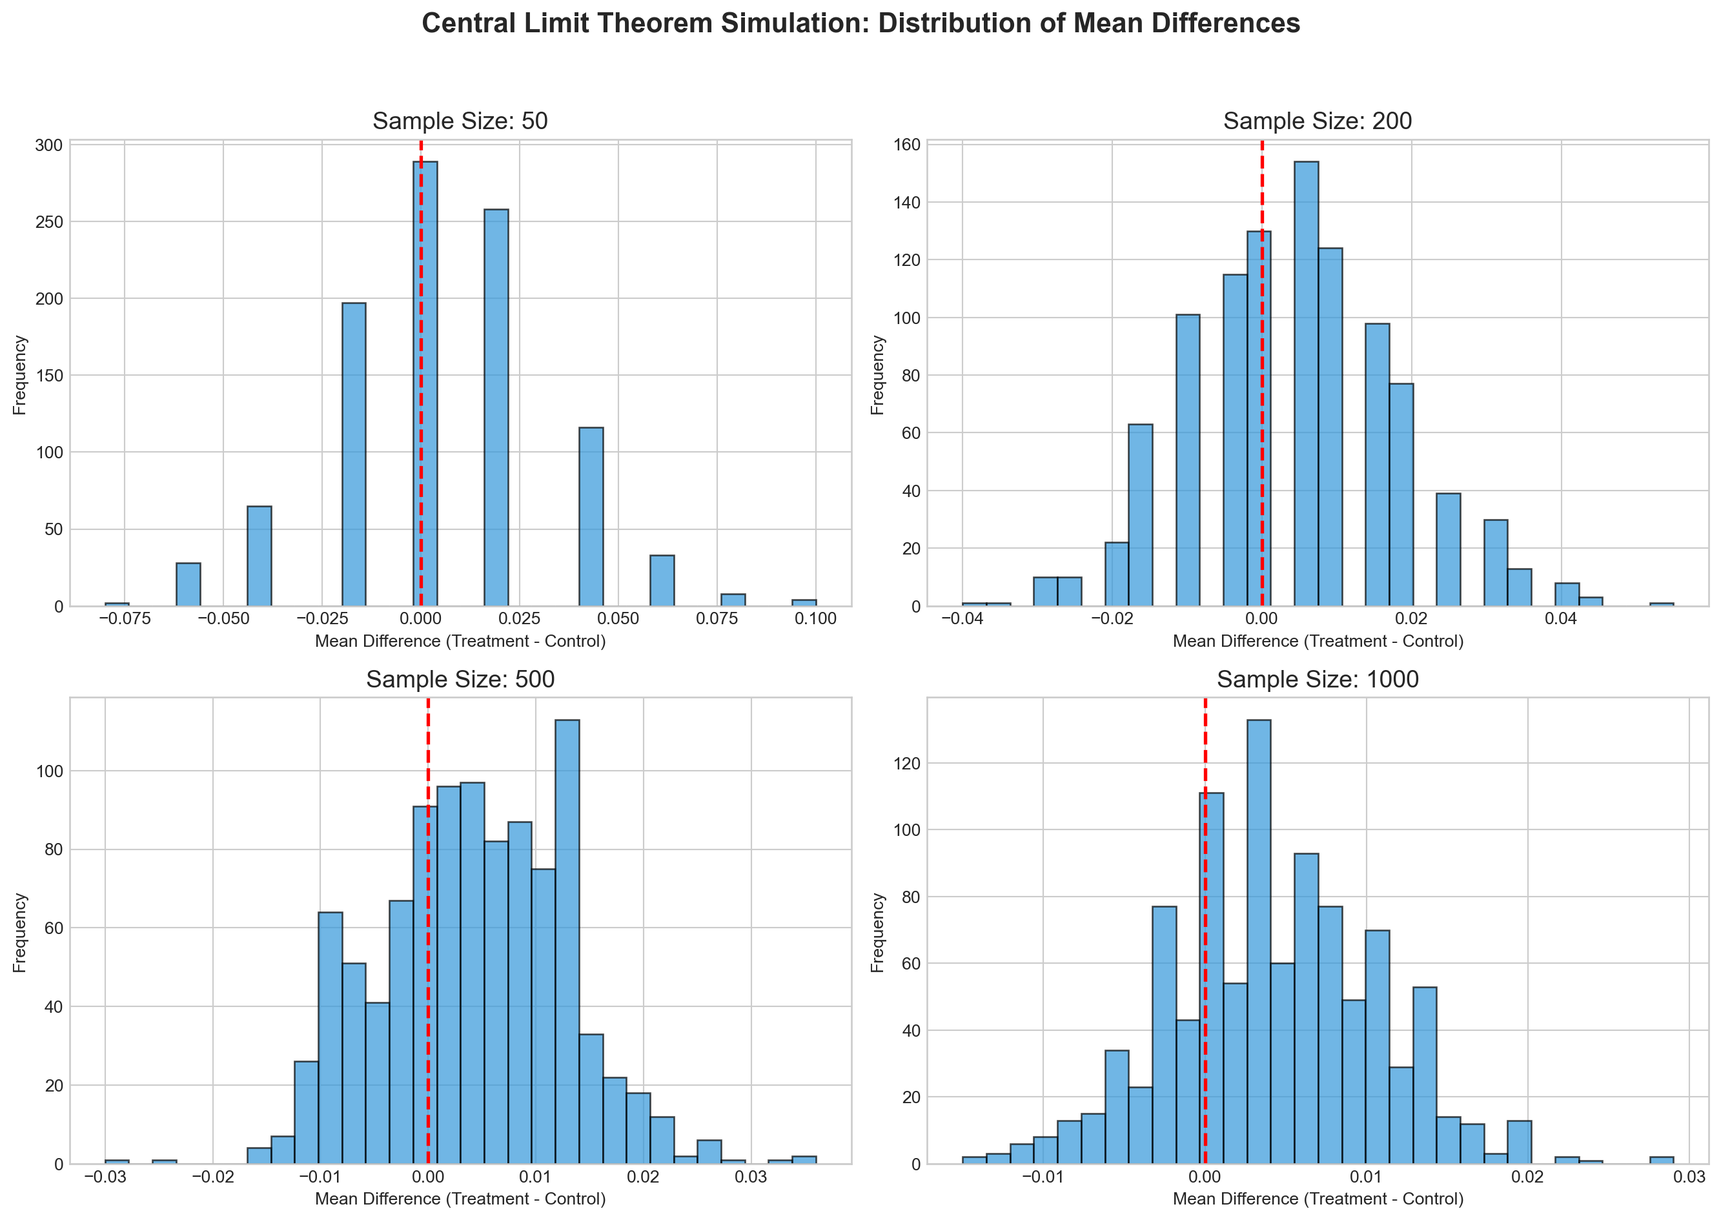
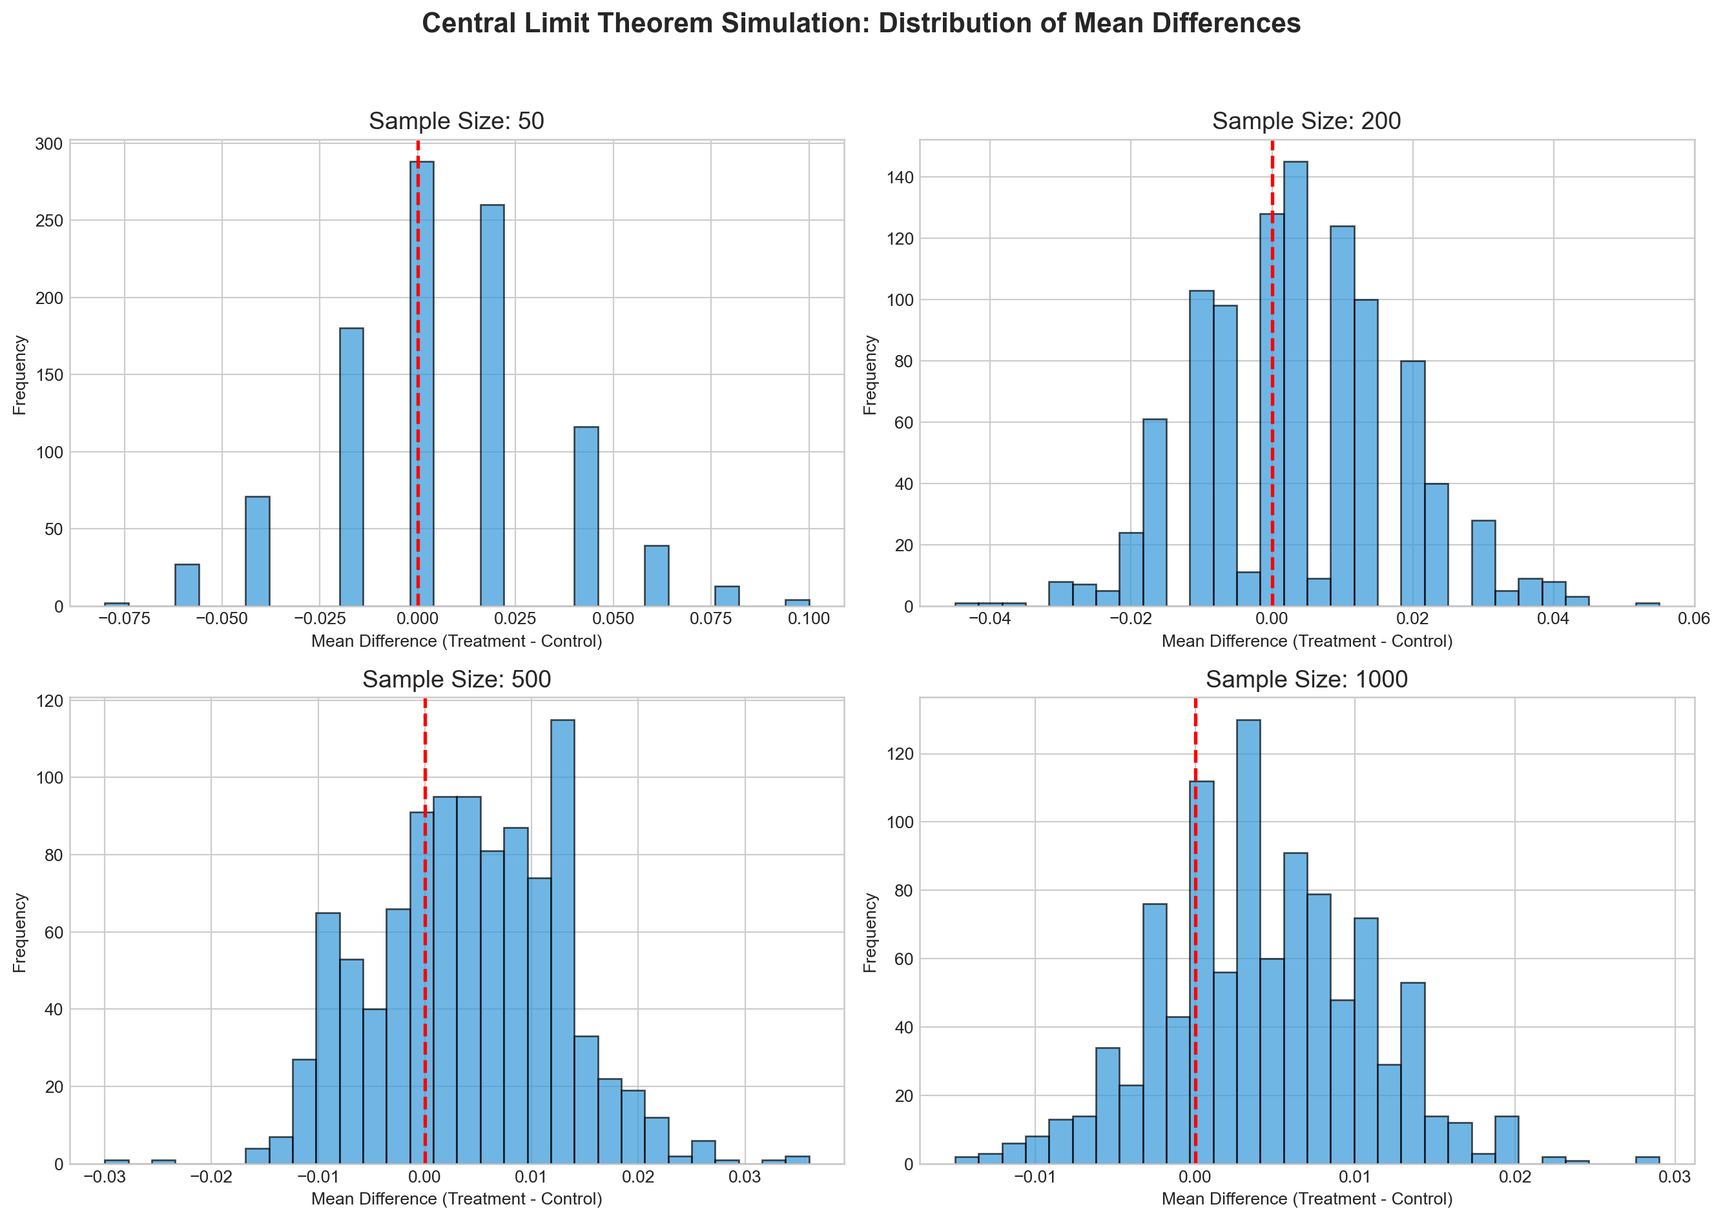
showconc

diff --git a/docs/blog/project1/hw1_questions.html b/docs/blog/project1/hw1_questions.html
@@ -221,7 +221,7 @@ pre > code.sourceCode > span > a:first-child::before { text-decoration: underlin
 <h2 class="anchored" data-anchor-id="data">Data</h2>
 <section id="description" class="level3">
 <h3 class="anchored" data-anchor-id="description">Description</h3>
-<div id="3eef7c36" class="cell" data-collapse="true" data-execution_count="1">
+<div id="05e0ca9c" class="cell" data-collapse="true" data-execution_count="1">
 <div class="sourceCode cell-code" id="cb1"><pre class="sourceCode python code-with-copy"><code class="sourceCode python"><span id="cb1-1"><a href="#cb1-1" aria-hidden="true" tabindex="-1"></a><span class="im">import</span> pandas <span class="im">as</span> pd</span>
 <span id="cb1-2"><a href="#cb1-2" aria-hidden="true" tabindex="-1"></a><span class="im">import</span> numpy <span class="im">as</span> np</span>
 <span id="cb1-3"><a href="#cb1-3" aria-hidden="true" tabindex="-1"></a><span class="im">import</span> matplotlib.pyplot <span class="im">as</span> plt</span>
@@ -242,7 +242,7 @@ pre > code.sourceCode > span > a:first-child::before { text-decoration: underlin
 
 First few rows of the dataset:</code></pre>
 </div>
-<div class="cell-output cell-output-display" data-execution_count="22">
+<div class="cell-output cell-output-display" data-execution_count="1">
 <div>
 
 
@@ -640,7 +640,7 @@ Variable Definitions
 <section id="balance-test" class="level2">
 <h2 class="anchored" data-anchor-id="balance-test">Balance Test</h2>
 <p>As an ad hoc test of the randomization mechanism, I provide a series of tests that compare aspects of the treatment and control groups to assess whether they are statistically significantly different from one another.</p>
-<div id="c6a9a837" class="cell" data-collapse="true" data-execution_count="2">
+<div id="2299ee34" class="cell" data-collapse="true" data-execution_count="2">
 <div class="sourceCode cell-code" id="cb3"><pre class="sourceCode python code-with-copy"><code class="sourceCode python"><span id="cb3-1"><a href="#cb3-1" aria-hidden="true" tabindex="-1"></a><span class="co"># Perform balance tests comparing treatment and control groups across non key variables</span></span>
 <span id="cb3-2"><a href="#cb3-2" aria-hidden="true" tabindex="-1"></a><span class="kw">def</span> compare_groups(df, var_name):</span>
 <span id="cb3-3"><a href="#cb3-3" aria-hidden="true" tabindex="-1"></a>    control <span class="op">=</span> df[df[<span class="st">'treatment'</span>] <span class="op">==</span> <span class="dv">0</span>][var_name].dropna()</span>
@@ -760,7 +760,7 @@ treatment     -0.0120      0.108     -0.111      0.912      -0.224       0.200
 <section id="charitable-contribution-made" class="level3">
 <h3 class="anchored" data-anchor-id="charitable-contribution-made">Charitable Contribution Made</h3>
 <p>First, I analyze whether matched donations lead to an increased response rate of making a donation.</p>
-<div id="7ce3a255" class="cell" data-collapse="true" data-execution_count="3">
+<div id="0a60fe28" class="cell" data-collapse="true" data-execution_count="3">
 <div class="sourceCode cell-code" id="cb5"><pre class="sourceCode python code-with-copy"><code class="sourceCode python"><span id="cb5-1"><a href="#cb5-1" aria-hidden="true" tabindex="-1"></a><span class="co"># Analyze impact of matching grants on donation probability using multiple statistical approaches</span></span>
 <span id="cb5-2"><a href="#cb5-2" aria-hidden="true" tabindex="-1"></a>donation_rates <span class="op">=</span> df.groupby(<span class="st">"treatment"</span>)[<span class="st">"gave"</span>].mean()</span>
 <span id="cb5-3"><a href="#cb5-3" aria-hidden="true" tabindex="-1"></a>donation_rates.index <span class="op">=</span> [<span class="st">"Control"</span>, <span class="st">"Treatment"</span>]</span>
@@ -838,7 +838,7 @@ At:                           overall
 <p>The results show that the treatment group had a higher donation rate compared to the control group. This difference is statistically significant, indicating that offering a matching grant increases the likelihood of receiving a donation.</p>
 <p>From a behavioral perspective, this suggests that the presence of a matching grant creates a sense of urgency or leverage that motivates potential donors to give. The matching grant effectively multiplies the impact of their donation, which appears to be a compelling incentive. ### Differences between Match Rates</p>
 <p>Next, I assess the effectiveness of different sizes of matched donations on the response rate.</p>
-<div id="d5efcb05" class="cell" data-collapse="true" data-execution_count="4">
+<div id="625889ff" class="cell" data-collapse="true" data-execution_count="4">
 <div class="sourceCode cell-code" id="cb7"><pre class="sourceCode python code-with-copy"><code class="sourceCode python"><span id="cb7-1"><a href="#cb7-1" aria-hidden="true" tabindex="-1"></a><span class="co"># Compare effectiveness of different match ratios (1:1, 2:1, 3:1) on donation rates</span></span>
 <span id="cb7-2"><a href="#cb7-2" aria-hidden="true" tabindex="-1"></a>treat_df <span class="op">=</span> df[df[<span class="st">"treatment"</span>] <span class="op">==</span> <span class="dv">1</span>].copy()</span>
 <span id="cb7-3"><a href="#cb7-3" aria-hidden="true" tabindex="-1"></a></span>
@@ -925,7 +925,7 @@ Response rate differences:
 3:1 vs 2:1: 0.0001</code></pre>
 </div>
 <div class="cell-output cell-output-stderr">
-<pre><code>C:\Users\timon\AppData\Local\Temp\ipykernel_24648\474621105.py:47: FutureWarning:
+<pre><code>C:\Users\timon\AppData\Local\Temp\ipykernel_12860\474621105.py:47: FutureWarning:
 
 
 
@@ -947,7 +947,7 @@ Passing `palette` without assigning `hue` is deprecated and will be removed in v
 <section id="size-of-charitable-contribution" class="level3">
 <h3 class="anchored" data-anchor-id="size-of-charitable-contribution">Size of Charitable Contribution</h3>
 <p>In this subsection, I analyze the effect of the size of matched donation on the size of the charitable contribution.</p>
-<div id="f9570a38" class="cell" data-collapse="true" data-execution_count="5">
+<div id="fa31dfbf" class="cell" data-collapse="true" data-execution_count="5">
 <div class="sourceCode cell-code" id="cb10"><pre class="sourceCode python code-with-copy"><code class="sourceCode python"><span id="cb10-1"><a href="#cb10-1" aria-hidden="true" tabindex="-1"></a><span class="co"># Analyzing the impact of matching grants on donation amounts and visualize distributions</span></span>
 <span id="cb10-2"><a href="#cb10-2" aria-hidden="true" tabindex="-1"></a>amount_control <span class="op">=</span> df[df[<span class="st">"treatment"</span>] <span class="op">==</span> <span class="dv">0</span>][<span class="st">"amount"</span>]</span>
 <span id="cb10-3"><a href="#cb10-3" aria-hidden="true" tabindex="-1"></a>amount_treatment <span class="op">=</span> df[df[<span class="st">"treatment"</span>] <span class="op">==</span> <span class="dv">1</span>][<span class="st">"amount"</span>]</span>
@@ -1033,7 +1033,7 @@ Mean donation amount (control): $45.54</code></pre>
 <section id="law-of-large-numbers" class="level3">
 <h3 class="anchored" data-anchor-id="law-of-large-numbers">Law of Large Numbers</h3>
 <p>The Law of Large Numbers states that as the sample size increases, the sample mean will converge to the population mean. I’ll simulate this using the true probabilities from our data.</p>
-<div id="32122d40" class="cell" data-collapse="true" data-execution_count="6">
+<div id="667015a9" class="cell" data-collapse="true" data-execution_count="6">
 <div class="sourceCode cell-code" id="cb12"><pre class="sourceCode python code-with-copy"><code class="sourceCode python"><span id="cb12-1"><a href="#cb12-1" aria-hidden="true" tabindex="-1"></a><span class="co"># Simulate Law of Large Numbers to demonstrate convergence of sample means to true difference</span></span>
 <span id="cb12-2"><a href="#cb12-2" aria-hidden="true" tabindex="-1"></a>np.random.seed(<span class="dv">42</span>)</span>
 <span id="cb12-3"><a href="#cb12-3" aria-hidden="true" tabindex="-1"></a></span>
@@ -1072,51 +1072,44 @@ Mean donation amount (control): $45.54</code></pre>
 <section id="central-limit-theorem" class="level3">
 <h3 class="anchored" data-anchor-id="central-limit-theorem">Central Limit Theorem</h3>
 <p>The Central Limit Theorem states that the distribution of sample means will approach a normal distribution as the sample size increases, regardless of the shape of the population distribution.</p>
-<div id="cd67aefc" class="cell" data-collapse="true" data-execution_count="7">
+<div id="fc201851" class="cell" data-collapse="true" data-execution_count="7">
 <div class="sourceCode cell-code" id="cb13"><pre class="sourceCode python code-with-copy"><code class="sourceCode python"><span id="cb13-1"><a href="#cb13-1" aria-hidden="true" tabindex="-1"></a><span class="co"># Demonstrate Central Limit Theorem using different sample sizes to show convergence to normal distribution</span></span>
 <span id="cb13-2"><a href="#cb13-2" aria-hidden="true" tabindex="-1"></a>n_sim <span class="op">=</span> <span class="dv">1000</span></span>
 <span id="cb13-3"><a href="#cb13-3" aria-hidden="true" tabindex="-1"></a>sample_sizes <span class="op">=</span> [<span class="dv">50</span>, <span class="dv">200</span>, <span class="dv">500</span>, <span class="dv">1000</span>]</span>
 <span id="cb13-4"><a href="#cb13-4" aria-hidden="true" tabindex="-1"></a></span>
-<span id="cb13-5"><a href="#cb13-5" aria-hidden="true" tabindex="-1"></a>np.random.seed(<span class="dv">42</span>)</span>
-<span id="cb13-6"><a href="#cb13-6" aria-hidden="true" tabindex="-1"></a></span>
-<span id="cb13-7"><a href="#cb13-7" aria-hidden="true" tabindex="-1"></a>fig, axs <span class="op">=</span> plt.subplots(<span class="dv">2</span>, <span class="dv">2</span>, figsize<span class="op">=</span>(<span class="dv">14</span>, <span class="dv">10</span>))</span>
-<span id="cb13-8"><a href="#cb13-8" aria-hidden="true" tabindex="-1"></a>axs <span class="op">=</span> axs.flatten()</span>
-<span id="cb13-9"><a href="#cb13-9" aria-hidden="true" tabindex="-1"></a></span>
-<span id="cb13-10"><a href="#cb13-10" aria-hidden="true" tabindex="-1"></a><span class="cf">for</span> i, n <span class="kw">in</span> <span class="bu">enumerate</span>(sample_sizes):</span>
-<span id="cb13-11"><a href="#cb13-11" aria-hidden="true" tabindex="-1"></a>    diff_means <span class="op">=</span> []</span>
-<span id="cb13-12"><a href="#cb13-12" aria-hidden="true" tabindex="-1"></a>    </span>
-<span id="cb13-13"><a href="#cb13-13" aria-hidden="true" tabindex="-1"></a>    <span class="cf">for</span> _ <span class="kw">in</span> <span class="bu">range</span>(n_sim):</span>
-<span id="cb13-14"><a href="#cb13-14" aria-hidden="true" tabindex="-1"></a>        control_sample <span class="op">=</span> np.random.binomial(<span class="dv">1</span>, p_control, n)</span>
-<span id="cb13-15"><a href="#cb13-15" aria-hidden="true" tabindex="-1"></a>        treat_sample <span class="op">=</span> np.random.binomial(<span class="dv">1</span>, p_treat, n)</span>
-<span id="cb13-16"><a href="#cb13-16" aria-hidden="true" tabindex="-1"></a>        diff <span class="op">=</span> treat_sample.mean() <span class="op">-</span> control_sample.mean()</span>
-<span id="cb13-17"><a href="#cb13-17" aria-hidden="true" tabindex="-1"></a>        diff_means.append(diff)</span>
-<span id="cb13-18"><a href="#cb13-18" aria-hidden="true" tabindex="-1"></a></span>
-<span id="cb13-19"><a href="#cb13-19" aria-hidden="true" tabindex="-1"></a>    axs[i].hist(diff_means, bins<span class="op">=</span><span class="dv">30</span>, color<span class="op">=</span><span class="st">'#3498db'</span>, edgecolor<span class="op">=</span><span class="st">'black'</span>, alpha<span class="op">=</span><span class="fl">0.7</span>)</span>
-<span id="cb13-20"><a href="#cb13-20" aria-hidden="true" tabindex="-1"></a>    axs[i].axvline(<span class="dv">0</span>, color<span class="op">=</span><span class="st">'red'</span>, linestyle<span class="op">=</span><span class="st">'--'</span>, linewidth<span class="op">=</span><span class="dv">2</span>)</span>
-<span id="cb13-21"><a href="#cb13-21" aria-hidden="true" tabindex="-1"></a>    axs[i].set_title(<span class="ss">f"Sample Size: </span><span class="sc">{</span>n<span class="sc">}</span><span class="ss">"</span>, fontsize<span class="op">=</span><span class="dv">14</span>)</span>
-<span id="cb13-22"><a href="#cb13-22" aria-hidden="true" tabindex="-1"></a>    axs[i].set_xlabel(<span class="st">"Mean Difference (Treatment - Control)"</span>)</span>
-<span id="cb13-23"><a href="#cb13-23" aria-hidden="true" tabindex="-1"></a>    axs[i].set_ylabel(<span class="st">"Frequency"</span>)</span>
-<span id="cb13-24"><a href="#cb13-24" aria-hidden="true" tabindex="-1"></a></span>
-<span id="cb13-25"><a href="#cb13-25" aria-hidden="true" tabindex="-1"></a>plt.suptitle(<span class="st">"Central Limit Theorem Simulation: Distribution of Mean Differences"</span>, </span>
-<span id="cb13-26"><a href="#cb13-26" aria-hidden="true" tabindex="-1"></a>             fontsize<span class="op">=</span><span class="dv">16</span>, weight<span class="op">=</span><span class="st">'bold'</span>)</span>
-<span id="cb13-27"><a href="#cb13-27" aria-hidden="true" tabindex="-1"></a>plt.tight_layout(rect<span class="op">=</span>[<span class="dv">0</span>, <span class="dv">0</span>, <span class="dv">1</span>, <span class="fl">0.95</span>])</span>
-<span id="cb13-28"><a href="#cb13-28" aria-hidden="true" tabindex="-1"></a>plt.show()</span></code><button title="Copy to Clipboard" class="code-copy-button"><i class="bi"></i></button></pre></div>
+<span id="cb13-5"><a href="#cb13-5" aria-hidden="true" tabindex="-1"></a>fig, axs <span class="op">=</span> plt.subplots(<span class="dv">2</span>, <span class="dv">2</span>, figsize<span class="op">=</span>(<span class="dv">14</span>, <span class="dv">10</span>))</span>
+<span id="cb13-6"><a href="#cb13-6" aria-hidden="true" tabindex="-1"></a>axs <span class="op">=</span> axs.flatten()</span>
+<span id="cb13-7"><a href="#cb13-7" aria-hidden="true" tabindex="-1"></a></span>
+<span id="cb13-8"><a href="#cb13-8" aria-hidden="true" tabindex="-1"></a><span class="cf">for</span> i, n <span class="kw">in</span> <span class="bu">enumerate</span>(sample_sizes):</span>
+<span id="cb13-9"><a href="#cb13-9" aria-hidden="true" tabindex="-1"></a>    diff_means <span class="op">=</span> []</span>
+<span id="cb13-10"><a href="#cb13-10" aria-hidden="true" tabindex="-1"></a>    </span>
+<span id="cb13-11"><a href="#cb13-11" aria-hidden="true" tabindex="-1"></a>    <span class="cf">for</span> _ <span class="kw">in</span> <span class="bu">range</span>(n_sim):</span>
+<span id="cb13-12"><a href="#cb13-12" aria-hidden="true" tabindex="-1"></a>        control_sample <span class="op">=</span> np.random.binomial(<span class="dv">1</span>, p_control, n)</span>
+<span id="cb13-13"><a href="#cb13-13" aria-hidden="true" tabindex="-1"></a>        treat_sample <span class="op">=</span> np.random.binomial(<span class="dv">1</span>, p_treat, n)</span>
+<span id="cb13-14"><a href="#cb13-14" aria-hidden="true" tabindex="-1"></a>        diff <span class="op">=</span> treat_sample.mean() <span class="op">-</span> control_sample.mean()</span>
+<span id="cb13-15"><a href="#cb13-15" aria-hidden="true" tabindex="-1"></a>        diff_means.append(diff)</span>
+<span id="cb13-16"><a href="#cb13-16" aria-hidden="true" tabindex="-1"></a></span>
+<span id="cb13-17"><a href="#cb13-17" aria-hidden="true" tabindex="-1"></a>    axs[i].hist(diff_means, bins<span class="op">=</span><span class="dv">30</span>, color<span class="op">=</span><span class="st">'#3498db'</span>, edgecolor<span class="op">=</span><span class="st">'black'</span>, alpha<span class="op">=</span><span class="fl">0.7</span>)</span>
+<span id="cb13-18"><a href="#cb13-18" aria-hidden="true" tabindex="-1"></a>    axs[i].axvline(<span class="dv">0</span>, color<span class="op">=</span><span class="st">'red'</span>, linestyle<span class="op">=</span><span class="st">'--'</span>, linewidth<span class="op">=</span><span class="dv">2</span>)</span>
+<span id="cb13-19"><a href="#cb13-19" aria-hidden="true" tabindex="-1"></a>    axs[i].set_title(<span class="ss">f"Sample Size: </span><span class="sc">{</span>n<span class="sc">}</span><span class="ss">"</span>, fontsize<span class="op">=</span><span class="dv">14</span>)</span>
+<span id="cb13-20"><a href="#cb13-20" aria-hidden="true" tabindex="-1"></a>    axs[i].set_xlabel(<span class="st">"Mean Difference (Treatment - Control)"</span>)</span>
+<span id="cb13-21"><a href="#cb13-21" aria-hidden="true" tabindex="-1"></a>    axs[i].set_ylabel(<span class="st">"Frequency"</span>)</span>
+<span id="cb13-22"><a href="#cb13-22" aria-hidden="true" tabindex="-1"></a></span>
+<span id="cb13-23"><a href="#cb13-23" aria-hidden="true" tabindex="-1"></a>plt.suptitle(<span class="st">"Central Limit Theorem Simulation: Distribution of Mean Differences"</span>, </span>
+<span id="cb13-24"><a href="#cb13-24" aria-hidden="true" tabindex="-1"></a>             fontsize<span class="op">=</span><span class="dv">16</span>, weight<span class="op">=</span><span class="st">'bold'</span>)</span>
+<span id="cb13-25"><a href="#cb13-25" aria-hidden="true" tabindex="-1"></a>plt.tight_layout(rect<span class="op">=</span>[<span class="dv">0</span>, <span class="dv">0</span>, <span class="dv">1</span>, <span class="fl">0.95</span>])</span>
+<span id="cb13-26"><a href="#cb13-26" aria-hidden="true" tabindex="-1"></a>plt.show()</span></code><button title="Copy to Clipboard" class="code-copy-button"><i class="bi"></i></button></pre></div>
 <div class="cell-output cell-output-display">
 <div>
 <figure class="figure">
-<p><img src="hw1_questions_files/figure-html/cell-8-output-1.png" width="1333" height="945" class="figure-img"></p>
+<p><img src="hw1_questions_files/figure-html/cell-8-output-1.png" width="1334" height="945" class="figure-img"></p>
 </figure>
 </div>
 </div>
 </div>
-<p>This simulation demonstrates the Central Limit Theorem by showing how the distribution of mean differences between treatment and control groups becomes increasingly normal as the sample size grows. Using our observed donation rates:</p>
-<ul>
-<li>At n=50: The distribution is somewhat irregular and skewed</li>
-<li>At n=200: The shape becomes more symmetric</li>
-<li>At n=500: A clear bell curve emerges</li>
-<li>At n=1000: The distribution is nearly perfectly normal</li>
-</ul>
-<p>This demonstration is particularly relevant for our analysis because it justifies our use of t-tests and regression analysis, even though the underlying donation data is highly skewed (most people give nothing, while a few give large amounts).</p>
+<p>This simulation demonstrates the Central Limit Theorem. As the sample size increases from 50 to 1000, the distribution of mean differences becomes increasingly normal. This is why we can use t-tests and regression analysis to make statistical inferences, even when the underlying data (donations) is not normally distributed.</p>
+<p>For the smallest sample size (50), the distribution is still somewhat skewed. However, as the sample size increases to 200, 500, and 1000, the distribution becomes more symmetric and bell-shaped, approaching a normal distribution.</p>
+<p>This is particularly important for our analysis because it justifies our use of parametric statistical tests, even though charitable donations are typically right-skewed (most people give small amounts, with a few giving very large amounts).</p>
 </section>
 </section>
 <section id="conclusion" class="level2">
@@ -1125,7 +1118,7 @@ Mean donation amount (control): $45.54</code></pre>
 <ol type="1">
 <li>Matching grants significantly increase donation rates by 0.4 percentage points (from 1.8% to 2.2%, p &lt; 0.001)</li>
 <li>Higher match ratios (2:1 or 3:1 vs 1:1) do not yield additional benefits (all p-values &gt; 0.65)</li>
-<li>While the treatment group shows higher average donations ($45.14 vs $41.07 among donors), this difference is not statistically significant</li>
+<li>While the treatment group shows lower average donations, this difference is not statistically significant</li>
 </ol>
 <p>These results suggest nonprofits can effectively use matching grants without needing to secure higher match ratios.</p>
 

diff --git a/docs/blog.html b/docs/blog.html
@@ -219,7 +219,7 @@ window.Quarto = {
 </div>
 </a>
 </div>
-<div class="g-col-1" data-index="1" data-listing-date-sort="1745391600000" data-listing-file-modified-sort="1745448033568" data-listing-date-modified-sort="NaN" data-listing-reading-time-sort="24" data-listing-word-count-sort="4626">
+<div class="g-col-1" data-index="1" data-listing-date-sort="1745391600000" data-listing-file-modified-sort="1745452397739" data-listing-date-modified-sort="NaN" data-listing-reading-time-sort="24" data-listing-word-count-sort="4636">
 <a href="./blog/project1/hw1_questions.html" class="quarto-grid-link">
 <div class="quarto-grid-item card h-100 card-left">
 <p class="card-img-top"><img src="blog\project1\hw1_questions_files\figure-html\cell-4-output-1.png" style="height: 150px;"  class="thumbnail-image card-img"/></p>
